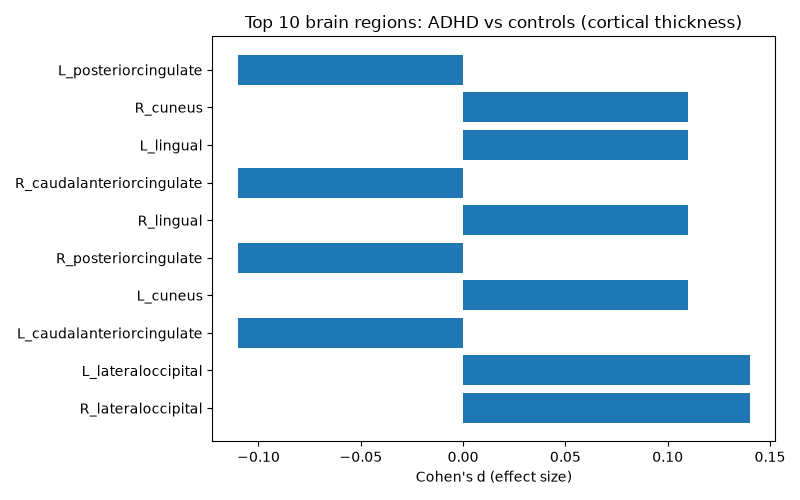
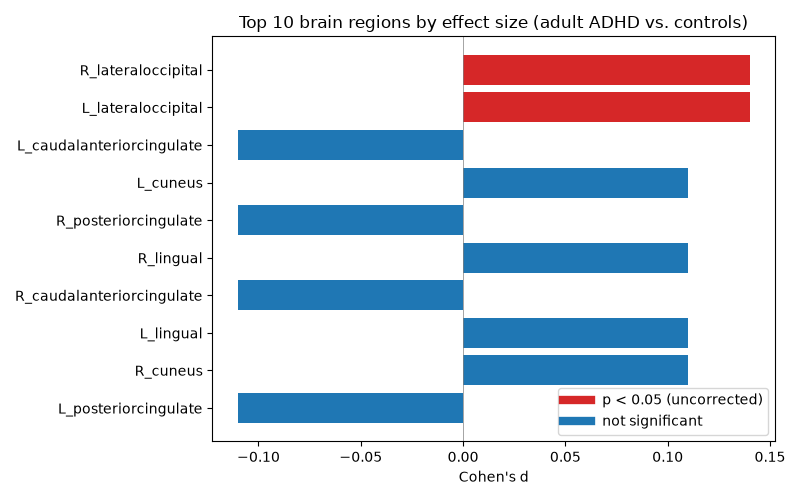
Add FDR correction and highlight in bar chart

diff --git a/index.html b/index.html
@@ -47,6 +47,14 @@ populations differ structurally, not that any individual's brain changes this wa
 they age. Differences in scanner sites and sample sizes between cohorts could also
 contribute.</p>
 
+<h2>Does this survive correction for multiple comparisons?</h2>
+<p>Testing 68 brain regions at once inflates the chance of false positives. Only 2 of the 68
+ regions are nominally significant (p &lt; 0.05) in adults before correction — and after applying
+ a Benjamini-Hochberg FDR correction, none survive at q &lt; 0.05. Same story in adolescents: 4
+ regions nominal, 0 surviving FDR. This mirrors the original ENIGMA-ADHD finding: individual
+ cortical effects are small and diffuse, which is precisely why consortium-scale sample sizes
+ (thousands of scans) are needed to detect them reliably.</p>
+<p><em>Analysis code: <a href="https://github.com/ekapanadze/Enigmaadhd/blob/main/analyze.py">analyze.py</a></em></p>
   <footer>Built by Elene Kapanadze, medical student exploring computational neuroscience and reproducible research methods.</footer>
 </body>
 </html>

diff --git a/analyze.py b/analyze.py
@@ -1,0 +1,40 @@
+import pandas as pd
+import numpy as np
+import matplotlib.pyplot as plt
+
+adult_url = "https://raw.githubusercontent.com/MICA-MNI/ENIGMA/master/enigmatoolbox/datasets/summary_statistics/adhdadult_case-controls_CortThick.csv"
+adult = pd.read_csv(adult_url)
+
+def fdr_bh(pvals):
+    pvals = np.asarray(pvals)
+    n = len(pvals)
+    order = np.argsort(pvals)
+    ranked = pvals[order]
+    adjusted = ranked * n / np.arange(1, n + 1)
+    adjusted = np.minimum.accumulate(adjusted[::-1])[::-1]
+    adjusted = np.clip(adjusted, 0, 1)
+    result = np.empty(n)
+    result[order] = adjusted
+    return result
+
+adult["fdr_q"] = fdr_bh(adult["pobs"])
+n_uncorrected = (adult["pobs"] < 0.05).sum()
+n_fdr = (adult["fdr_q"] < 0.05).sum()
+print(f"Regions p<0.05 uncorrected: {n_uncorrected} / {len(adult)}")
+print(f"Regions surviving FDR q<0.05: {n_fdr} / {len(adult)}")
+
+top10 = adult.reindex(adult.d_icv.abs().sort_values(ascending=False).index).head(10)
+colors = ["#d62728" if p < 0.05 else "#1f77b4" for p in top10["pobs"]]
+
+plt.figure(figsize=(8, 5))
+plt.barh(top10["Structure"], top10["d_icv"], color=colors)
+plt.axvline(0, color="grey", linewidth=0.5)
+plt.xlabel("Cohen's d")
+plt.title("Top 10 brain regions by effect size (adult ADHD vs. controls)")
+plt.gca().invert_yaxis()
+red = plt.Line2D([0], [0], color="#d62728", lw=6, label="p < 0.05 (uncorrected)")
+blue = plt.Line2D([0], [0], color="#1f77b4", lw=6, label="not significant")
+plt.legend(handles=[red, blue], loc="lower right")
+plt.tight_layout()
+plt.savefig("plot.png")
+print("Saved plot.png")
